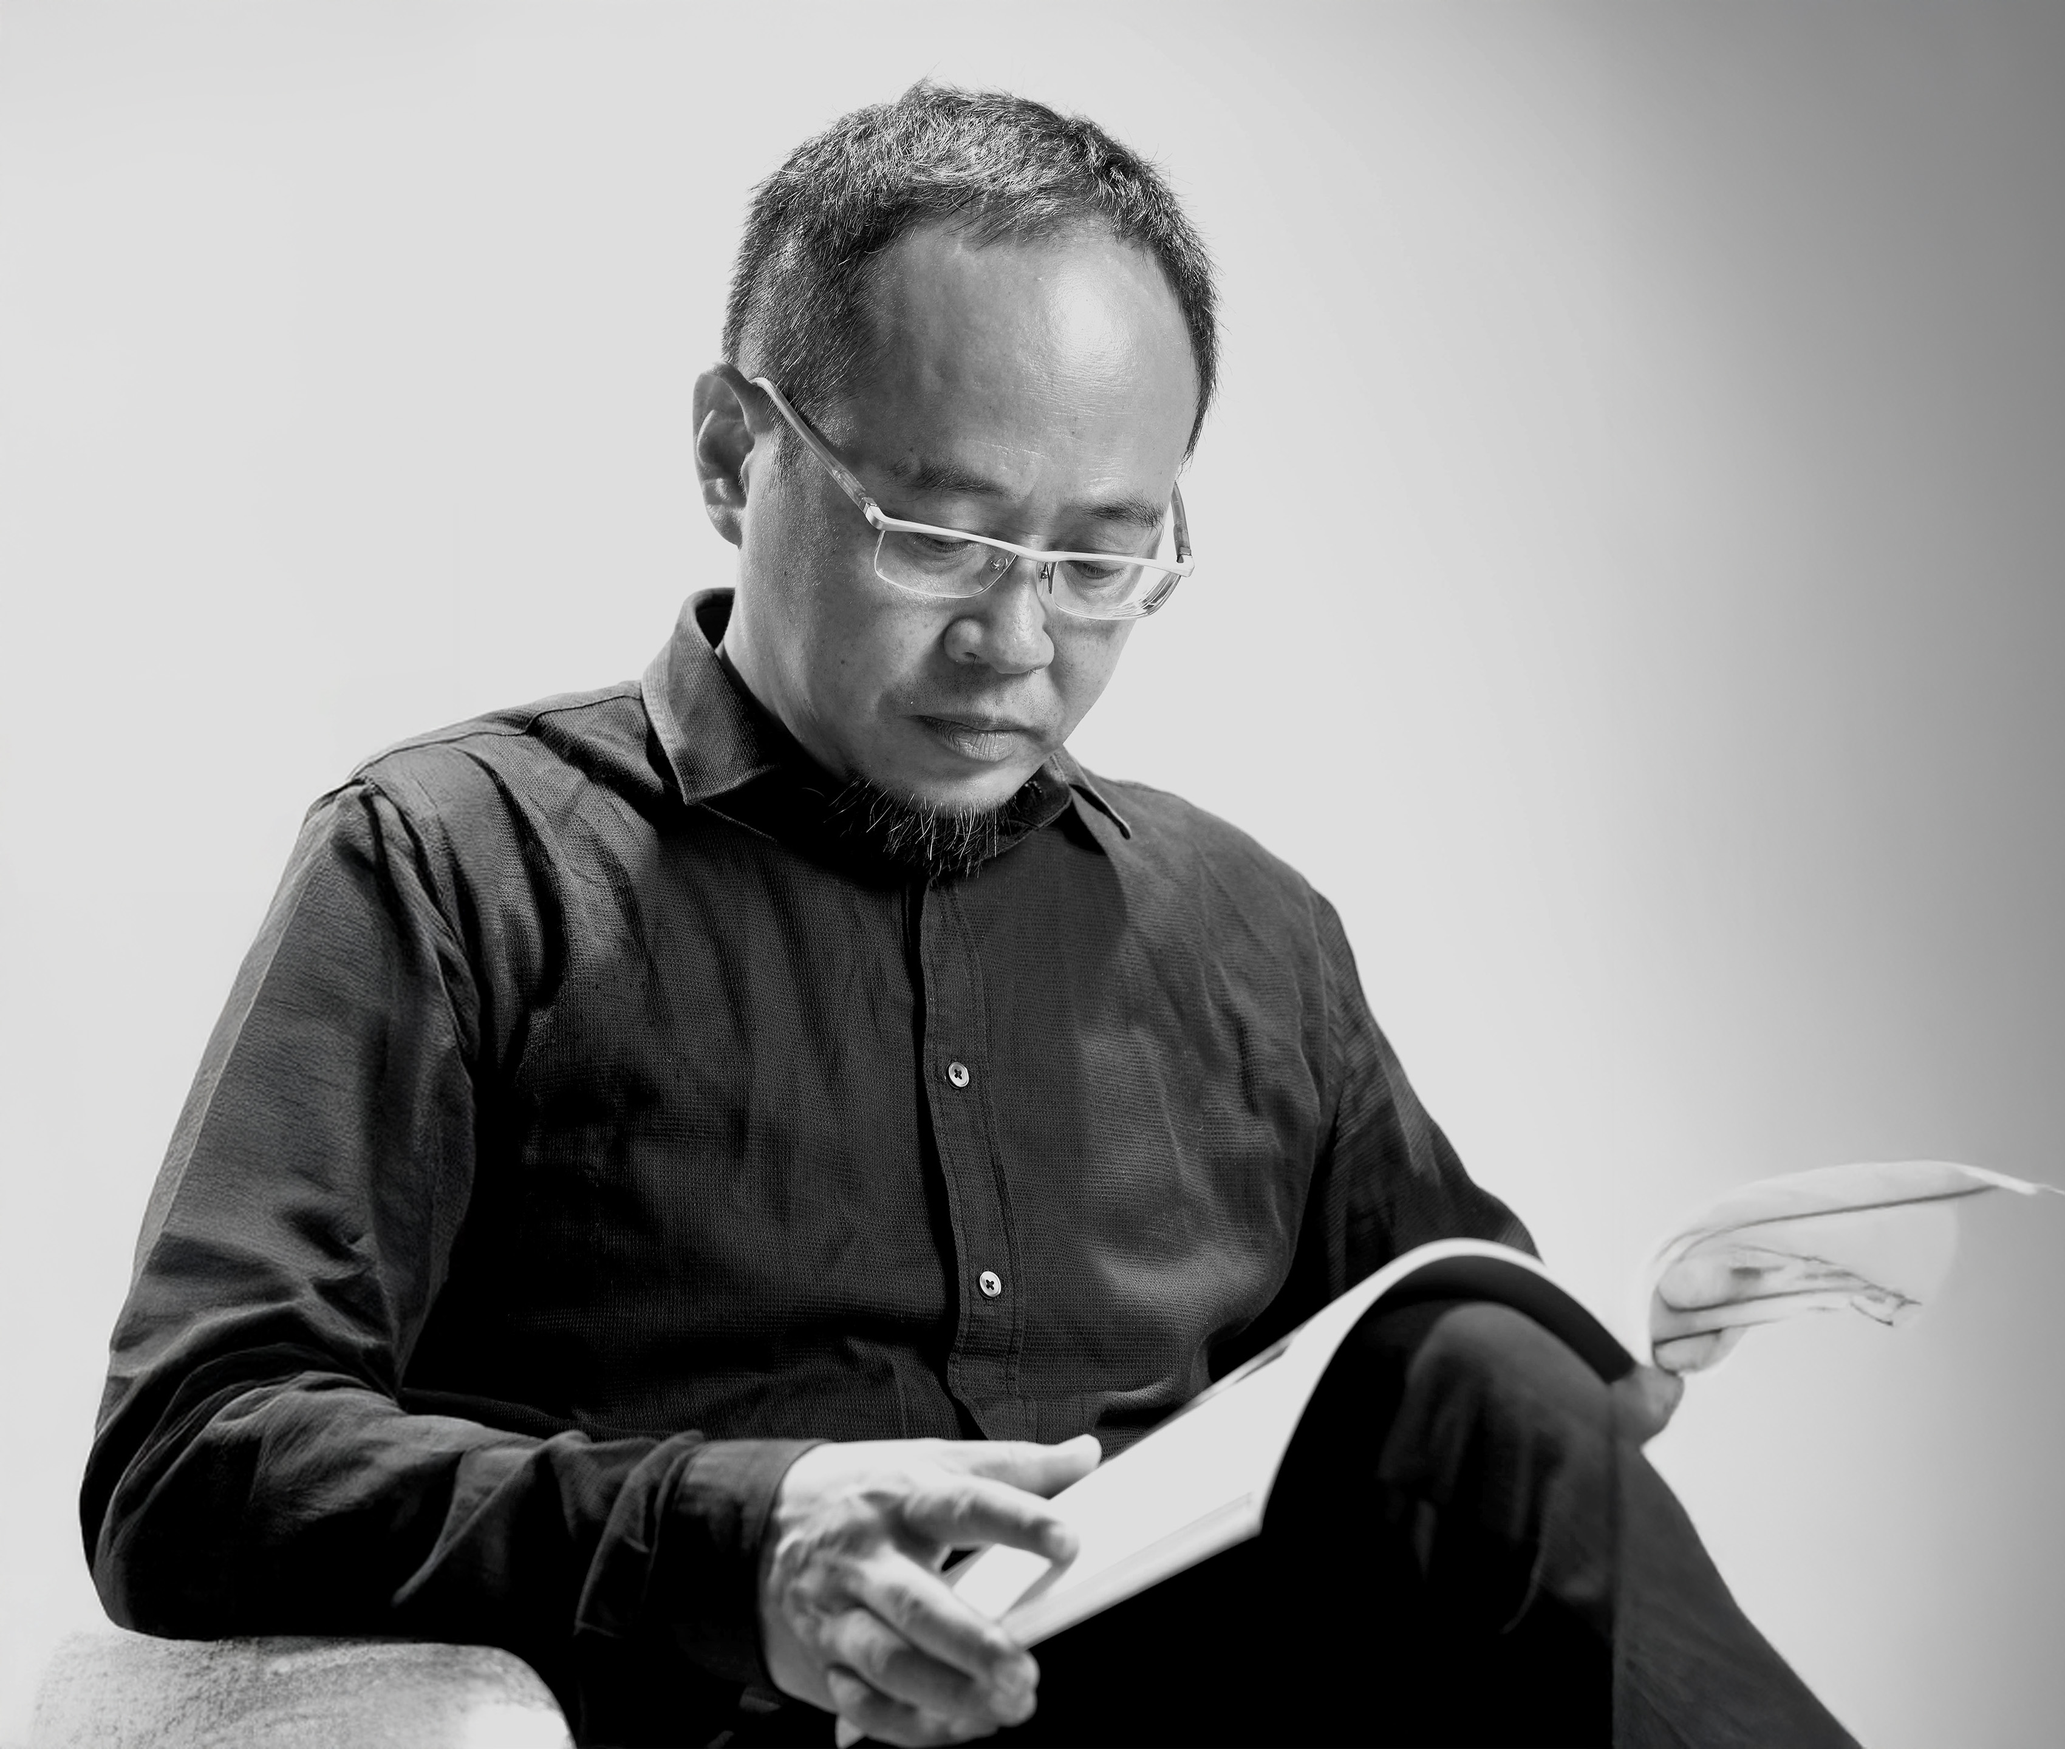
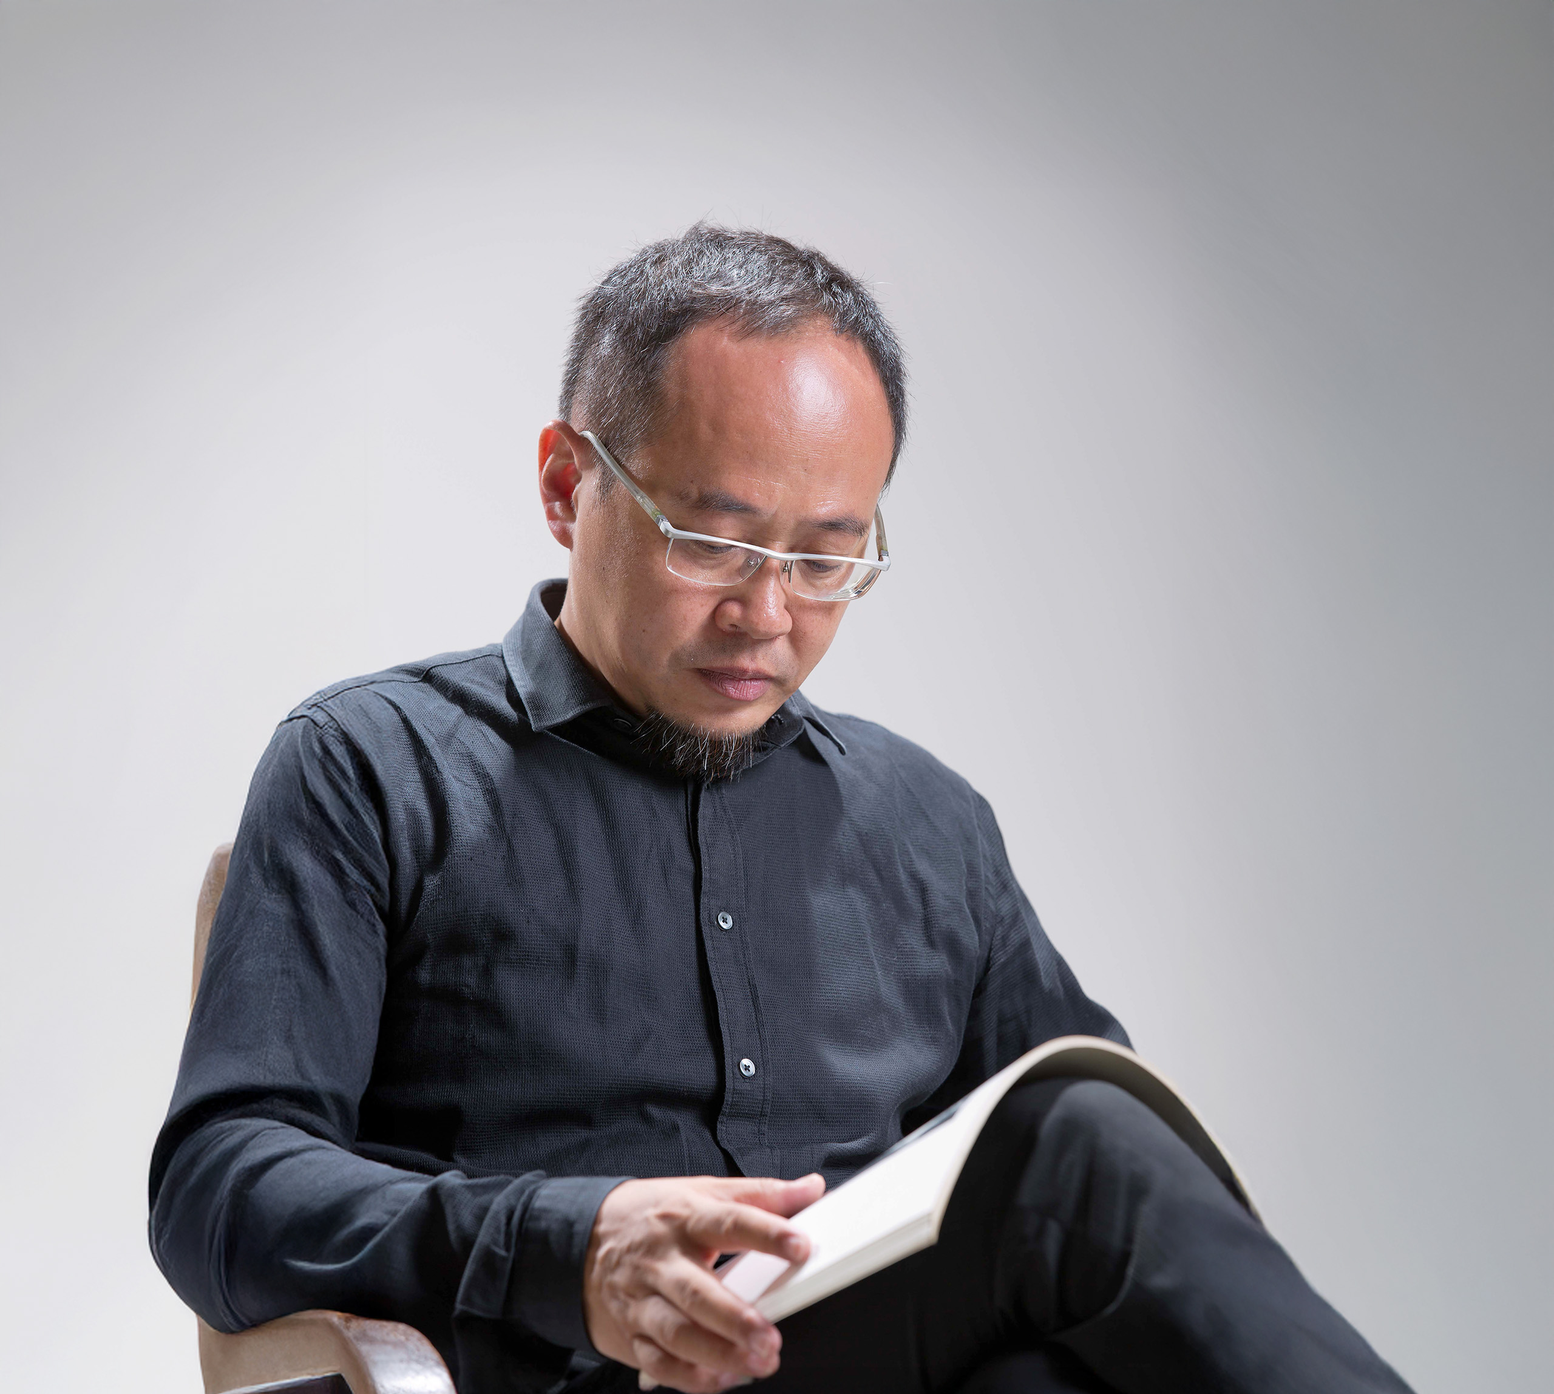
update: 更新景觀品味頁面照片
- 更新許富居建築師照片
- 更新 LandscapeTastePage 相關配置

🤖 Generated with [Claude Code](https://claude.com/claude-code)

diff --git a/src/pages/LandscapeTastePage.tsx b/src/pages/LandscapeTastePage.tsx
@@ -135,7 +135,7 @@ const LandscapeTastePage: React.FC = () => {
           backgroundImage: `url(${personImage})`,
           backgroundSize: 'cover',
           backgroundPosition: 'center',
-          filter: 'blur(30px) brightness(0.3) grayscale(100%)',
+          filter: 'blur(30px) brightness(0.3) grayscale(60%)',
           transform: 'scale(1.3)',
           opacity: 0.6,
         }}
@@ -164,7 +164,6 @@ const LandscapeTastePage: React.FC = () => {
                   className="h-full w-full object-cover"
                   style={{
                     objectPosition: 'center top',
-                    filter: 'grayscale(100%)',
                     maskImage: 'linear-gradient(to right, black 60%, transparent 100%)',
                     WebkitMaskImage: 'linear-gradient(to right, black 60%, transparent 100%)',
                   }}
